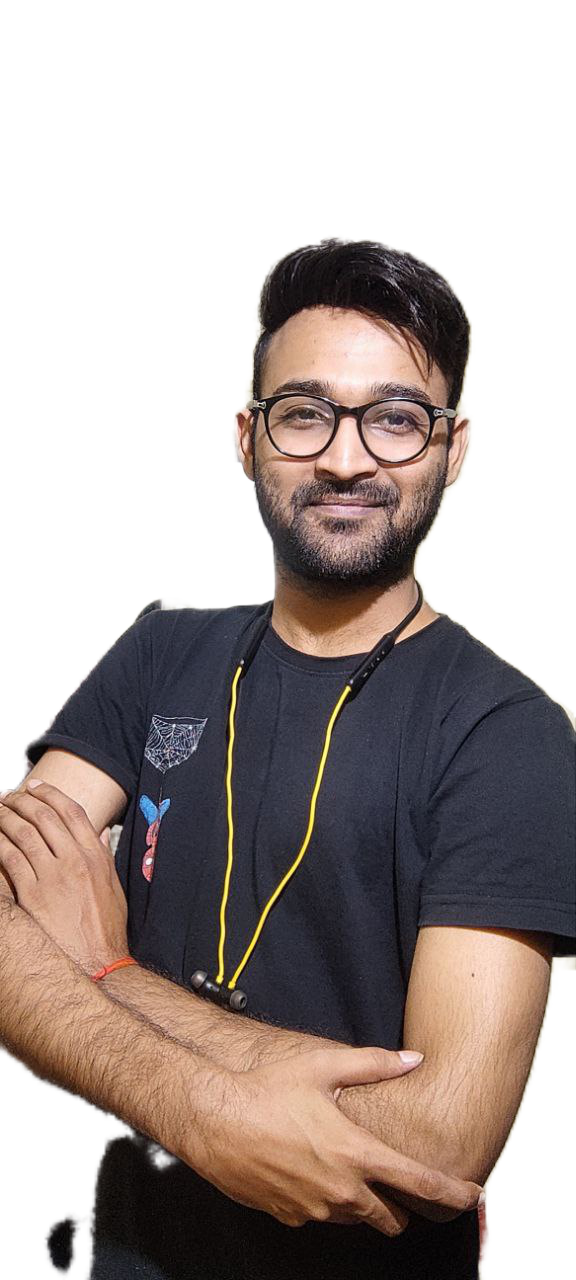
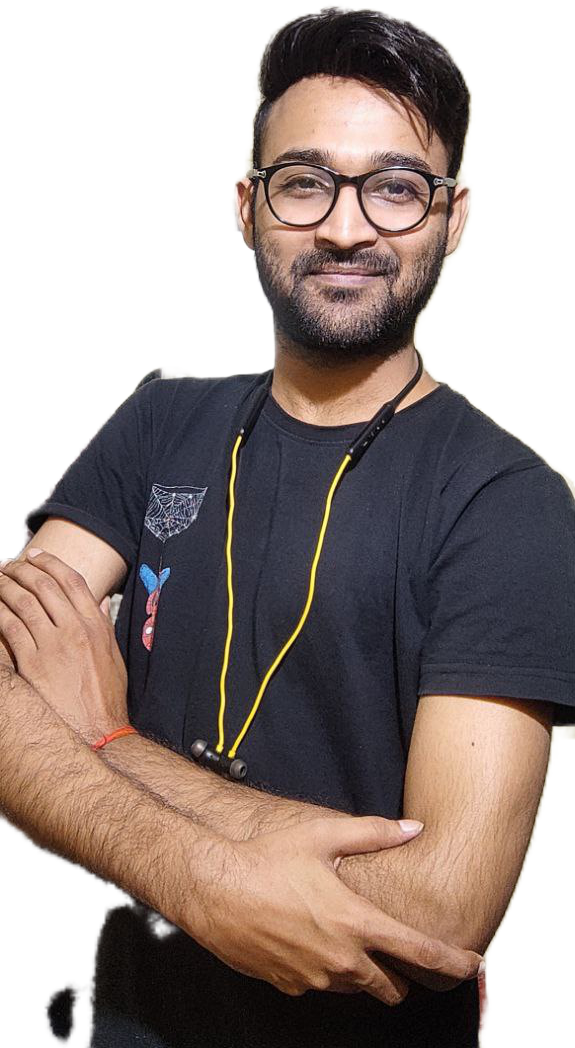
front intro complete

diff --git a/src/components/Introduction/Intro.js b/src/components/Introduction/Intro.js
@@ -2,23 +2,24 @@ import React from 'react'
 import './Intro.css'
 import Github from '../../../src/icons&photo/gitLogo.png'
 import LinkedIn  from '../../../src/icons&photo/linkedInLogo.png'
+import Photo from '../../../src/icons&photo/sid.png'
+import Floationdiv from '../FloatingDivs/Floationdiv'
+import crown from '../../../src/icons&photo/crown.png'
 const Intro = () => {
   return (
     <div className='intro'>
         <div className='iLeft'>
                 <div  className='iName'>
-                    <span>Hello  hi There! I am .. </span>
+                    <span>Hi There! I am .. </span>
                     <span>Siddhant Kashyap</span>
                     <span>Full Stack Developer with good experience in MERN stack</span>
                 </div>
-                <button className='iButton' >Hire Me</button>
+                <button className='button iButton' >Hire Me</button>
                 <div className='iIcon'>
                   <img src={Github}alt=""/>
                   <img src={LinkedIn}alt=""/>
                 </div>
-       
-       
-       
+                <div></div>
         </div>
 
 
@@ -26,7 +27,11 @@ const Intro = () => {
 
 
         <div className='iRight'>
-          I am at right
+          <img src ={Photo} alt=""/>
+       
+          <Floationdiv  img={crown} text1="Web" text2="Developer"/>
+    
+          
         </div>
        
     </div>

diff --git a/src/components/FloatingDivs/Floating.css b/src/components/FloatingDivs/Floating.css
@@ -1,0 +1,28 @@
+.floatingDiv {
+    justify-content: space-around;
+    background: rgb(170, 189, 164);
+    box-shadow:4px 4px #0b1517, 8px 7px #87e70a, 8px 8px #334758;
+    border-radius: 17px;
+    display: flex;
+    align-items: center;
+    padding: 15px;
+    margin-left: 70px;
+   height: 100px;
+    width: 105px;
+  }
+ .floatingDiv>span{
+    font-weight: bold;
+    font-size: 20px;
+    transform: rotate(-45deg);
+    text-shadow: 0 1px 0 rgb(84, 41, 41), 0 2px 0 rgb(10, 216, 13),
+                0 3px 0 rgb(161, 54, 54), 0 4px 0 #ccc,
+                0 5px 0 #ccc, 0 6px 0 #ccc,
+                0 7px 0 #ccc, 0 8px 0 #ccc,
+                0 9px 0 #ccc, 0 10px 0 #ccc,
+                0 11px 0 #ccc, 0 12px 0 #ccc,
+                0 20px 30px rgba(0, 0, 0, 0.5);
+    
+ }
+  
+
+ 

diff --git a/src/components/Introduction/Intro.css b/src/components/Introduction/Intro.css
@@ -31,16 +31,40 @@
     font-size: 14px;
     margin-top: 10px;
 }
-.iRight{
-    flex: 1;
-    position:relative;
 
+.iButton{
+    width: 10rem;
+    height: 3rem;
+   
 }
-button>iButton{
-    size: 29px;
+.iButton:hover{
+    background: white;
+    cursor: pointer;
+    border: 1px solid ;
+    border-color: chocolate;
 }
 .iIcon>img{
     max-width: 50px;
     max-height: 50px;
     margin: 10px;
 }
+.iRight{
+    flex: 1;
+    position:relative;
+
+}
+.iRight>*{
+    
+        position: absolute;
+        z-index: 1;
+      
+}
+.iRight>:nth-child(1){
+    max-width: 300px;
+    max-height: 500px;
+    margin-left: 150px;
+    border: 1px solid #111547;
+    border-radius: 150px;
+    box-shadow: 4px 4px #00A4BD, 12px 7px #FF7A59, 12px 12px #334758;
+}
+

diff --git a/src/components/Services/Services.js b/src/components/Services/Services.js
@@ -1,0 +1,24 @@
+import React from 'react'
+import './Services.css'
+import Heart from '../../../src/icons&photo/heartemoji.png'
+import Humble from '../../../src/icons&photo/humble.png'
+import Glasses from '../../../src/icons&photo/glasses.png'
+
+const Services = () => {
+  return (
+    <div className='services'>
+
+    {/* left side division */}
+    <div className='awesome'>
+        <span>My Awesome</span>
+        <span>Services</span>
+
+    </div>
+    {/* right side division */}
+    <div className='cards'></div>
+
+    </div>
+  )
+}
+
+export default Services

diff --git a/src/components/FloatingDivs/Floationdiv.js b/src/components/FloatingDivs/Floationdiv.js
@@ -1,0 +1,17 @@
+import React from 'react'
+import './Floating.css'
+
+const Floationdiv = ({img, text1, text2}) => {
+  return (
+   <>
+   <div className="floatingDiv">
+    
+       <span>FullStack DEveloper</span><br/>
+      
+    </div>
+    
+   </>
+  )
+}
+
+export default Floationdiv
